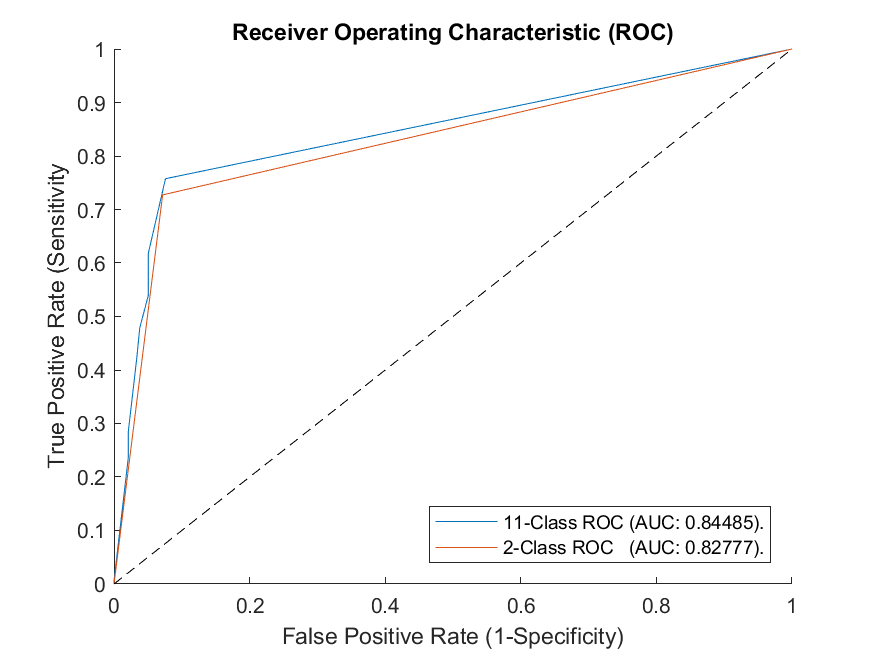
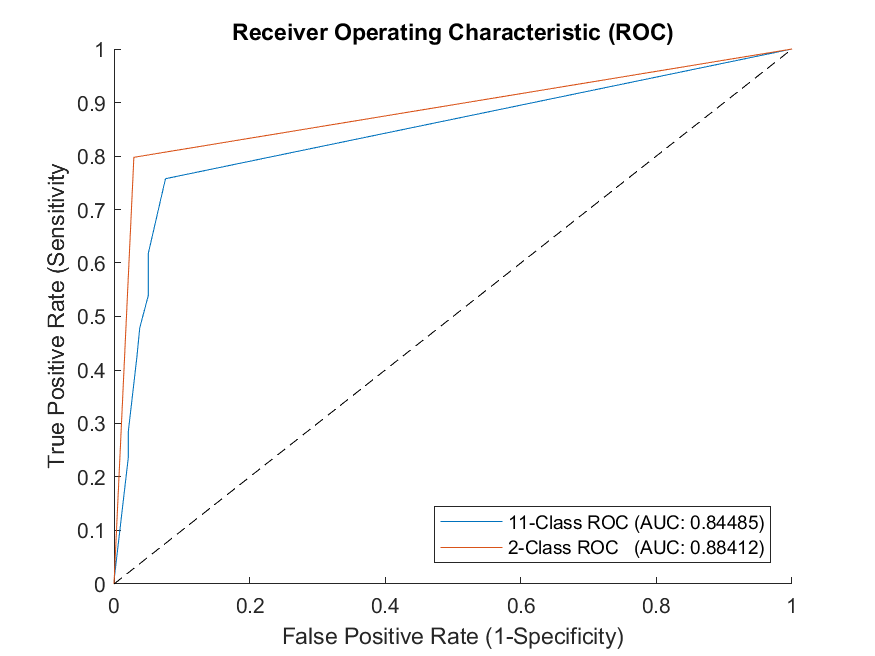
addd

diff --git a/arr.m b/arr.m
@@ -81,11 +81,12 @@ cd C:\Users\User1\Documents\GitHub\arrhythmia
 [X1,Y1,T1,AUC1,OPTROCPT1] = perfcurve(tMulti,outMulti,1);
 figure,
 plot(Y1,X1);
-[X2,Y2,T2,AUC2,OPTROCPT2] = perfcurve(t2,out2,2);
-hold on, plot(X2,Y2);
+% [X2,Y2,T2,AUC2,OPTROCPT2] = perfcurve(t2,pred,2);
+% hold on, plot(X2,Y2);
+hold on, plot([0;1-spec;1],[0;sens;1]);
 hold on, plot(0:.1:1, 0:.1:1,'--k','HandleVisibility','off');
 % legend(['ROC (AUC: ' num2str(AUC1) ').' char(10) ''], 'location', 'southeast'); %#ok<CHARTEN>
-legend(['11-Class ROC (AUC: ' num2str(1-AUC1) ').'], ['2-Class ROC   (AUC: ' num2str(AUC2) ').'], 'location', 'southeast'); 
+legend(['11-Class ROC (AUC: ' num2str(1-AUC1) ')'], ['2-Class ROC   (AUC: ' num2str(trapz([0;1-spec;1],[0;sens;1])) ')'], 'location', 'southeast'); 
 ylabel('True Positive Rate (Sensitivity')
 xlabel('False Positive Rate (1-Specificity)')
 set(gca,'box','off')
@@ -97,7 +98,7 @@ saveas(gcf, 'ROCboth.png')
 % sensitivity = tp/(tp+fn)
 % sensitivity2 = tp/(totalSP)
 
-CP2 = classperf(t2, out2, 'Positive', [2], 'Negative', [1]); %#ok<*NBRAK>
+CP2 = classperf(t2, pred, 'Positive', [2], 'Negative', [1]); %#ok<*NBRAK>
 % pred=kfoldPredict(RUSBoosted);
 % acc = length(find(pred==t2))/length(t2);
 % [X2,Y2,T2,AUC2,OPTROCPT2] = perfcurve(t2,pred,2);
